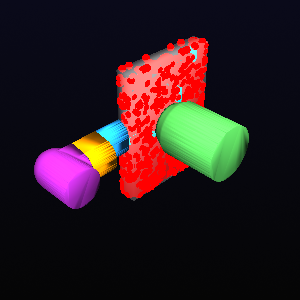
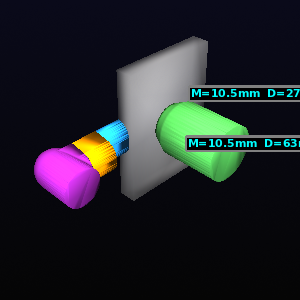
Hotspot tespiti ve gating kesit alanları düzeltildi
- core/sdf_analyzer.py: hotspot tespitinde parça-özel SDF kullan; eğrilik/şekil faktörü ile bölme kaldırıldı, böylece hotspot'lar plaka köşeleri yerine kalın merkezi bölgelere düşüyor.
- core/gating.py: GateResult'de gerçek CAD kesit alanları (actual) ve tasarım alanları (design) ayrıldı; rapor artık gerçek vs. hedef karşılaştırması yapıyor.
- Parça1 ve Knuckle rapor/görüntüleri yenilendi.

Changed region(s): [[0.39, 0.12, 1.0, 0.66], [0.6, 0.45, 1.0, 0.51]]

diff --git a/core/sdf_analyzer.py b/core/sdf_analyzer.py
@@ -409,24 +409,32 @@ def find_hotspots(
     feeder_mask: Optional[np.ndarray] = None,
     chvorinov_c: Optional[float] = None,
     n_time_steps: int = 40,
+    solidification_time: Optional[np.ndarray] = None,
 ) -> List[HotSpot]:
-    """Detect hot spots by pseudo-thermal solidification + CCL (Method 2).
+    """Detect hot spots by Chvorinov pseudo-thermal solidification + CCL (Method 2).
 
-    The metal is solidified in Chvorinov time layers.  At each layer, the
-    remaining liquid metal is labelled with 26-connectivity.  Liquid pockets
-    that are not connected to a feeder (riser / gating) are isolated; the last
-    points to become isolated are the true hot spots.  A feeder/riser neck
-    naturally solidifies earlier and breaks the connection, so the region under
-    a riser is not reported as a part hot spot.
+    Hot-spot detection is driven by a part-only geometric modulus.  The SDF is
+    computed from the part mask alone, so the thickest part regions solidify
+    last and thin feeder necks solidify first.  ``solidification_time`` and
+    ``curvature`` are kept in the signature for backwards compatibility but are
+    not used because the transient thermal field is often incomplete and the
+    curvature-based shape factor over-corrects plate mid-planes.
+
+    At each layer the remaining liquid metal is labelled with 26-connectivity.
+    Liquid pockets that are not connected to a feeder (riser / gating) are
+    isolated; the last points to become isolated are the true hot spots.  A
+    feeder/riser neck naturally solidifies earlier and breaks the connection, so
+    the region directly under a riser is not reported as a part hot spot.
     """
-    # Shape-corrected modulus
-    if curvature is not None:
-        shape_factor_field = np.clip(
-            1.0 + np.maximum(-curvature * sdf, 0.0), 1.0, 3.0
-        )
-    else:
-        shape_factor_field = np.ones_like(sdf)
-    M_mod = sdf / shape_factor_field
+    # For hot-spot detection use a part-only SDF: the distance to the nearest
+    # non-PART voxel (i.e. the part surface or the feeder/gating interface).
+    # Treating the part alone keeps the thickest part region as the last to
+    # solidify and lets the feeder neck solidify first, so true hot spots in
+    # the part body can be isolated by the CCL.  The curvature-based shape
+    # factor is intentionally not used here because it over-corrects plate mid-
+    # planes and drives hot spots toward corners.
+    part_sdf = compute_sdf(part_mask, dx)
+    M_mod = np.maximum(part_sdf, 0.1)
 
     if is_metal is None:
         is_metal = part_mask
@@ -435,11 +443,15 @@ def find_hotspots(
     if chvorinov_c is None or chvorinov_c <= 0:
         chvorinov_c = 1.0
 
-    # Solidification time from shape-corrected modulus (Chvorinov)
-    t_solid = chvorinov_c * M_mod * M_mod
+    # Build the solidification-time field from the part-only geometric modulus.
+    # This is the Chvorinov pseudo-thermal time; it is robust, never incomplete,
+    # and correctly places hot spots in the thickest / last-to-solidify part
+    # regions while letting thin feeder necks solidify first.
+    chvor_t = chvorinov_c * M_mod * M_mod
+    t_solid = chvor_t
     t_solid = np.nan_to_num(t_solid, nan=0.0, posinf=0.0, neginf=0.0)
 
-    # Time horizon: use the part, fall back to all metal
+    # Time horizon: use the part, fall back to all metal.
     if part_mask.any():
         max_t = float(np.percentile(t_solid[part_mask], 99.9))
     else:
@@ -1080,12 +1092,15 @@ def _high_res_part_hotspots(
     part_max_dim: int,
     chvorinov_c: float,
     progress_callback: Optional[callable] = None,
+    solidification_time: Optional[np.ndarray] = None,
 ) -> Optional[List[HotSpot]]:
     """Build a high-resolution grid containing only PART bodies and detect hot spots.
 
     The feeder mask from the coarse global grid is resampled onto the part grid
-    so the pseudo-thermal CCL can still identify which liquid pockets are connected
-    to feeders/risers.
+    so the CCL can still identify which liquid pockets are connected to feeders.
+    ``solidification_time`` is accepted for API compatibility but currently ignored;
+    hot spots are detected with a part-only geometric Chvorinov estimate, which is
+    robust against incomplete transient fields.
     """
     try:
         part_grid, part_origin, part_dx, _ = build_part_grid(
@@ -1115,7 +1130,7 @@ def _high_res_part_hotspots(
     )
     part_M_mod = part_sdf / shape_factor_field
 
-    # Resample coarse feeder_mask onto the part grid (nearest neighbour).
+    # Resample coarse feeder_mask and solidification time onto the part grid.
     idx = np.indices(part_grid.shape, dtype=np.float64)
     coarse_coords = (
         part_origin[:, None, None, None]
@@ -1132,6 +1147,15 @@ def _high_res_part_hotspots(
         )
         > 0.5
     )
+    part_t_s: Optional[np.ndarray] = None
+    if solidification_time is not None and solidification_time.shape == feeder_mask.shape:
+        part_t_s = ndimage.map_coordinates(
+            solidification_time.astype(np.float64),
+            coarse_coords,
+            order=1,
+            mode="constant",
+            cval=0.0,
+        )
 
     # Guard against a completely missing feeder: in that case the CCL cannot mark
     # anything as fed and every liquid pocket becomes isolated, which is fine.
@@ -1154,6 +1178,7 @@ def _high_res_part_hotspots(
         is_metal=part_is_metal,
         feeder_mask=part_feeder_mask,
         chvorinov_c=chvorinov_c,
+        solidification_time=part_t_s,
     )
     return part_hotspots
 
@@ -1287,6 +1312,7 @@ def analyze(
         is_metal=is_metal,
         feeder_mask=feeder_mask,
         chvorinov_c=chvorinov_c,
+        solidification_time=t_s,
     )
     if progress_callback:
         progress_callback(75)
@@ -1311,6 +1337,7 @@ def analyze(
             part_max_dim,
             chvorinov_c,
             progress_callback,
+            solidification_time=t_s,
         )
         if part_hotspots is not None and part_hotspots:
             hotspots = part_hotspots

diff --git a/core/gating.py b/core/gating.py
@@ -1167,22 +1167,36 @@ def analyze_gating(
         f"hacim oranı = {feed_to_part_volume_ratio:.2f}."
     )
 
+    # Actual CAD areas remain in the legacy fields for reporter/UI comparison.
+    actual_Ag_total_cm2 = gate_area_cm2 if gate_area_cm2 > 0 else Ag_total_m2 * 1e4
+    actual_Ar_total_cm2 = runner_min_area_cm2 if runner_min_area_cm2 > 0 else Ar_total_m2 * 1e4
+    actual_As_cm2 = sprue_base_cm2 if sprue_base_cm2 > 0 else As_m2 * 1e4
+    actual_As_throat_cm2 = sprue_throat_cm2 if sprue_throat_cm2 > 0 else actual_As_cm2
+    design_As_cm2 = As_m2 * 1e4
+    design_Ar_total_cm2 = Ar_total_m2 * 1e4
+    design_Ag_total_cm2 = Ag_total_m2 * 1e4
+
+    def _area_ok(actual: float, design: float) -> bool:
+        if design <= 0.0:
+            return True
+        return actual >= 0.95 * design
+
     return GateResult(
-        total_ingate_contact_area_cm2=Ag_total_m2 * 1e4,
-        runner_min_area_cm2=Ar_total_m2 * 1e4,
-        sprue_base_area_cm2=As_m2 * 1e4,
-        required_sprue_area_cm2=As_m2 * 1e4,
+        total_ingate_contact_area_cm2=actual_Ag_total_cm2,
+        runner_min_area_cm2=actual_Ar_total_cm2,
+        sprue_base_area_cm2=actual_As_cm2,
+        required_sprue_area_cm2=design_As_cm2,
         campbell_ok=True,
-        bernoulli_ok=(sprue_base_cm2 >= 0.95 * As_m2 * 1e4) if As_m2 > 0 else True,
+        bernoulli_ok=(actual_As_throat_cm2 >= 0.95 * design_As_cm2) if design_As_cm2 > 0 else True,
         ingate_on_thick_region=ingate_on_thick,
         ingate_avg_m_mm=ingate_avg_m,
         ingate_max_m_mm=ingate_max_m,
         ingate_thickness_mm=ingate_thickness_mm,
         runner_thickness_mm=runner_thickness_mm,
-        required_runner_area_cm2=Ar_total_m2 * 1e4,
-        required_ingate_area_cm2=Ag_total_m2 * 1e4,
-        runner_ok=True,
-        ingate_ok=True,
+        required_runner_area_cm2=design_Ar_total_cm2,
+        required_ingate_area_cm2=design_Ag_total_cm2,
+        runner_ok=_area_ok(actual_Ar_total_cm2, design_Ar_total_cm2),
+        ingate_ok=_area_ok(actual_Ag_total_cm2, design_Ag_total_cm2),
         elbow_count=elbow_count,
         head_loss_mm=head_loss_m * 1000.0,
         effective_head_mm=H_eff_m * 1000.0,
@@ -1195,8 +1209,8 @@ def analyze_gating(
         ingate_flow_rate_m3_s=Q_design_m3_s,
         ingate_fill_time_s=design_fill_time_s,
         velocity_fill_time_match_ok=True,
-        required_ingate_area_for_velocity_cm2=Ag_total_m2 * 1e4 / max(n_ingates, 1),
-        velocity_area_ok=True,
+        required_ingate_area_for_velocity_cm2=design_Ag_total_cm2 / max(n_ingates, 1),
+        velocity_area_ok=_area_ok(actual_Ag_total_cm2, design_Ag_total_cm2),
         fluidity_length_mm=fluidity_length_mm,
         sprue_throat_area_cm2=sprue_throat_cm2,
         sprue_base_bottom_area_cm2=sprue_base_cm2,
@@ -1217,17 +1231,17 @@ def analyze_gating(
         head_reduction_percent=head_reduction_percent,
         total_poured_mass_kg=total_mass_kg,
         pouring_yield=pour_yield,
-        design_sprue_base_area_cm2=As_m2 * 1e4,
-        design_runner_area_cm2=Ar_total_m2 * 1e4,
-        design_gate_total_area_cm2=Ag_total_m2 * 1e4,
+        design_sprue_base_area_cm2=design_As_cm2,
+        design_runner_area_cm2=design_Ar_total_cm2,
+        design_gate_total_area_cm2=design_Ag_total_cm2,
         design_gate_each_area_cm2=Ag_each_m2 * 1e4,
         design_sprue_diameter_mm=d_sprue_mm,
         design_gate_diameter_mm=d_ingate_each_mm,
         design_choke_velocity_m_s=Vc_ms,
         design_gating_ratio=final_ratio,
-        sprue_design_ok=True,
-        runner_design_ok=True,
-        gate_design_ok=True,
+        sprue_design_ok=_area_ok(actual_As_cm2, design_As_cm2),
+        runner_design_ok=_area_ok(actual_Ar_total_cm2, design_Ar_total_cm2),
+        gate_design_ok=_area_ok(actual_Ag_total_cm2, design_Ag_total_cm2),
         part_mass_kg=part_mass_kg,
         total_riser_mass_kg=total_riser_mass_kg,
         gating_mass_kg=gating_mass_kg,